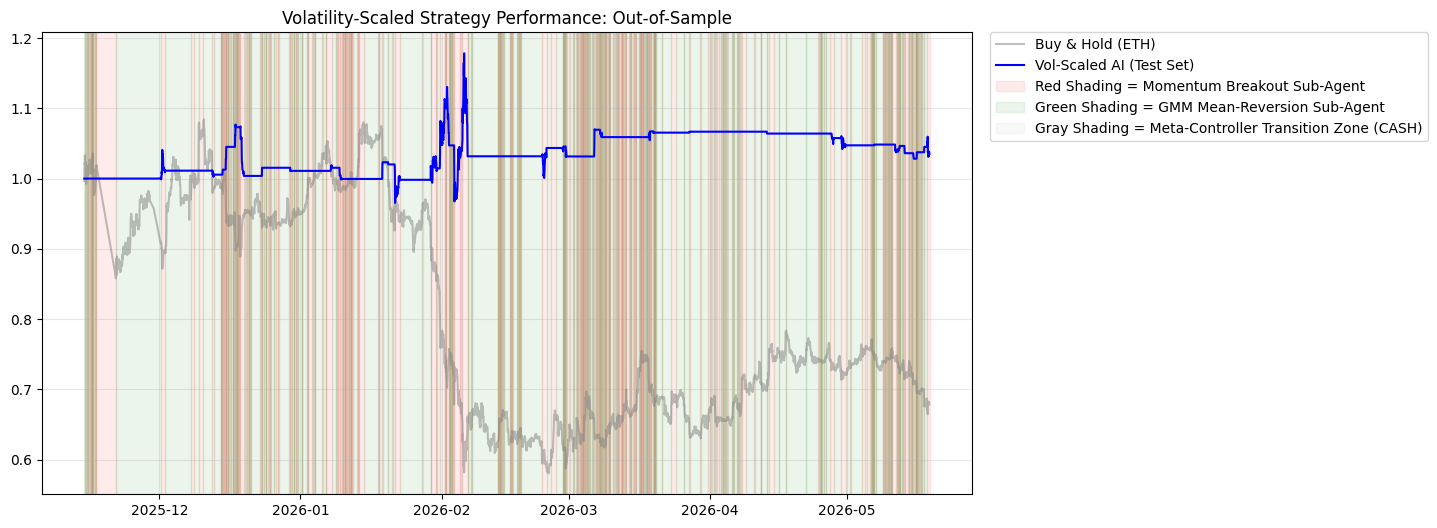
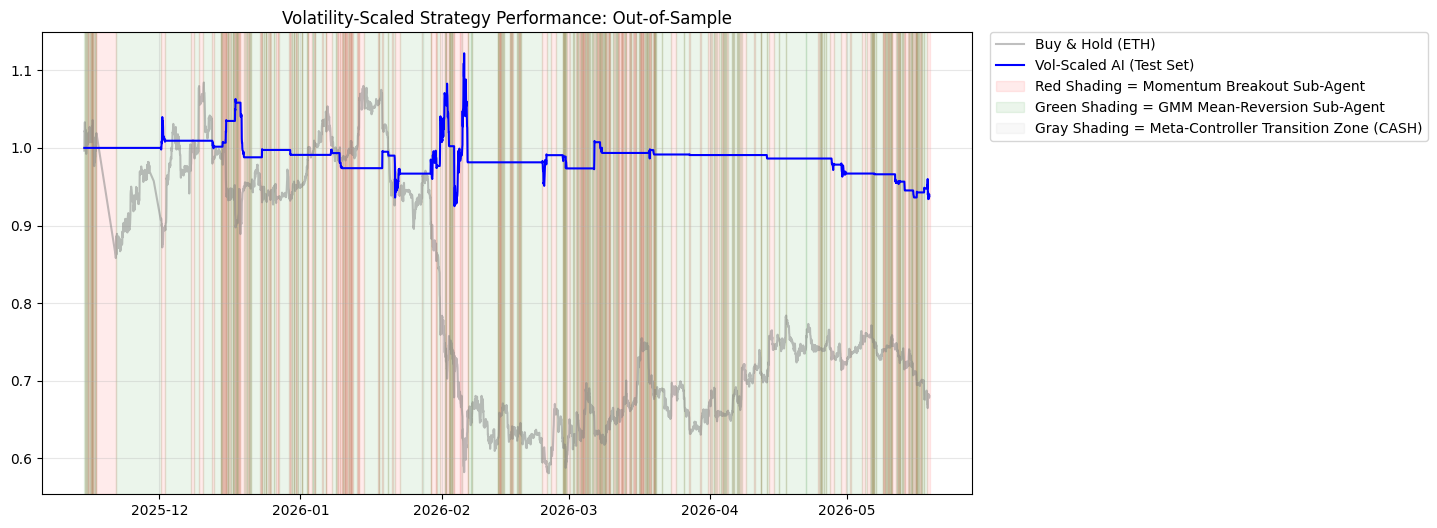
fix: resolve GMM PNL attribution leak and enforce 10 bps transaction fees

diff --git a/src/backtest.py b/src/backtest.py
@@ -22,7 +22,7 @@ def get_hurst_exponent(ts, max_lag=20):
     poly = np.polyfit(np.log(lags), np.log(tau), 1)
     return poly[0] * 2.0
 TARGET_VOLATILITY = 0.06  # Must match api.py
-FEE_PCT = 0.0  # Fees disabled for backtesting
+FEE_PCT = 0.0010  # Fees enabled for backtesting
 
 def load_data():
     current_dir = os.path.dirname(os.path.abspath(__file__))
@@ -297,7 +297,10 @@ def calculate_metrics(df, verbose=True):
 
     # Calculate sub-agent contributions and drawdowns
     if 'active_agent' in df.columns:
-        df['trade_owner'] = df['active_agent'].replace('CASH', np.nan).ffill()
+        # Assign ownership strictly when a position is active, then shift and ffill to capture the exit fee
+        df['trade_owner'] = np.nan
+        df.loc[df['position_size'] != 0, 'trade_owner'] = df['active_agent']
+        df['trade_owner'] = df['trade_owner'].shift(1).ffill()
         
         gmm_returns = df.loc[df['trade_owner'] == 'GMM', 'strategy_returns'].sum()
         breakout_returns = df.loc[df['trade_owner'] == 'Breakout', 'strategy_returns'].sum()